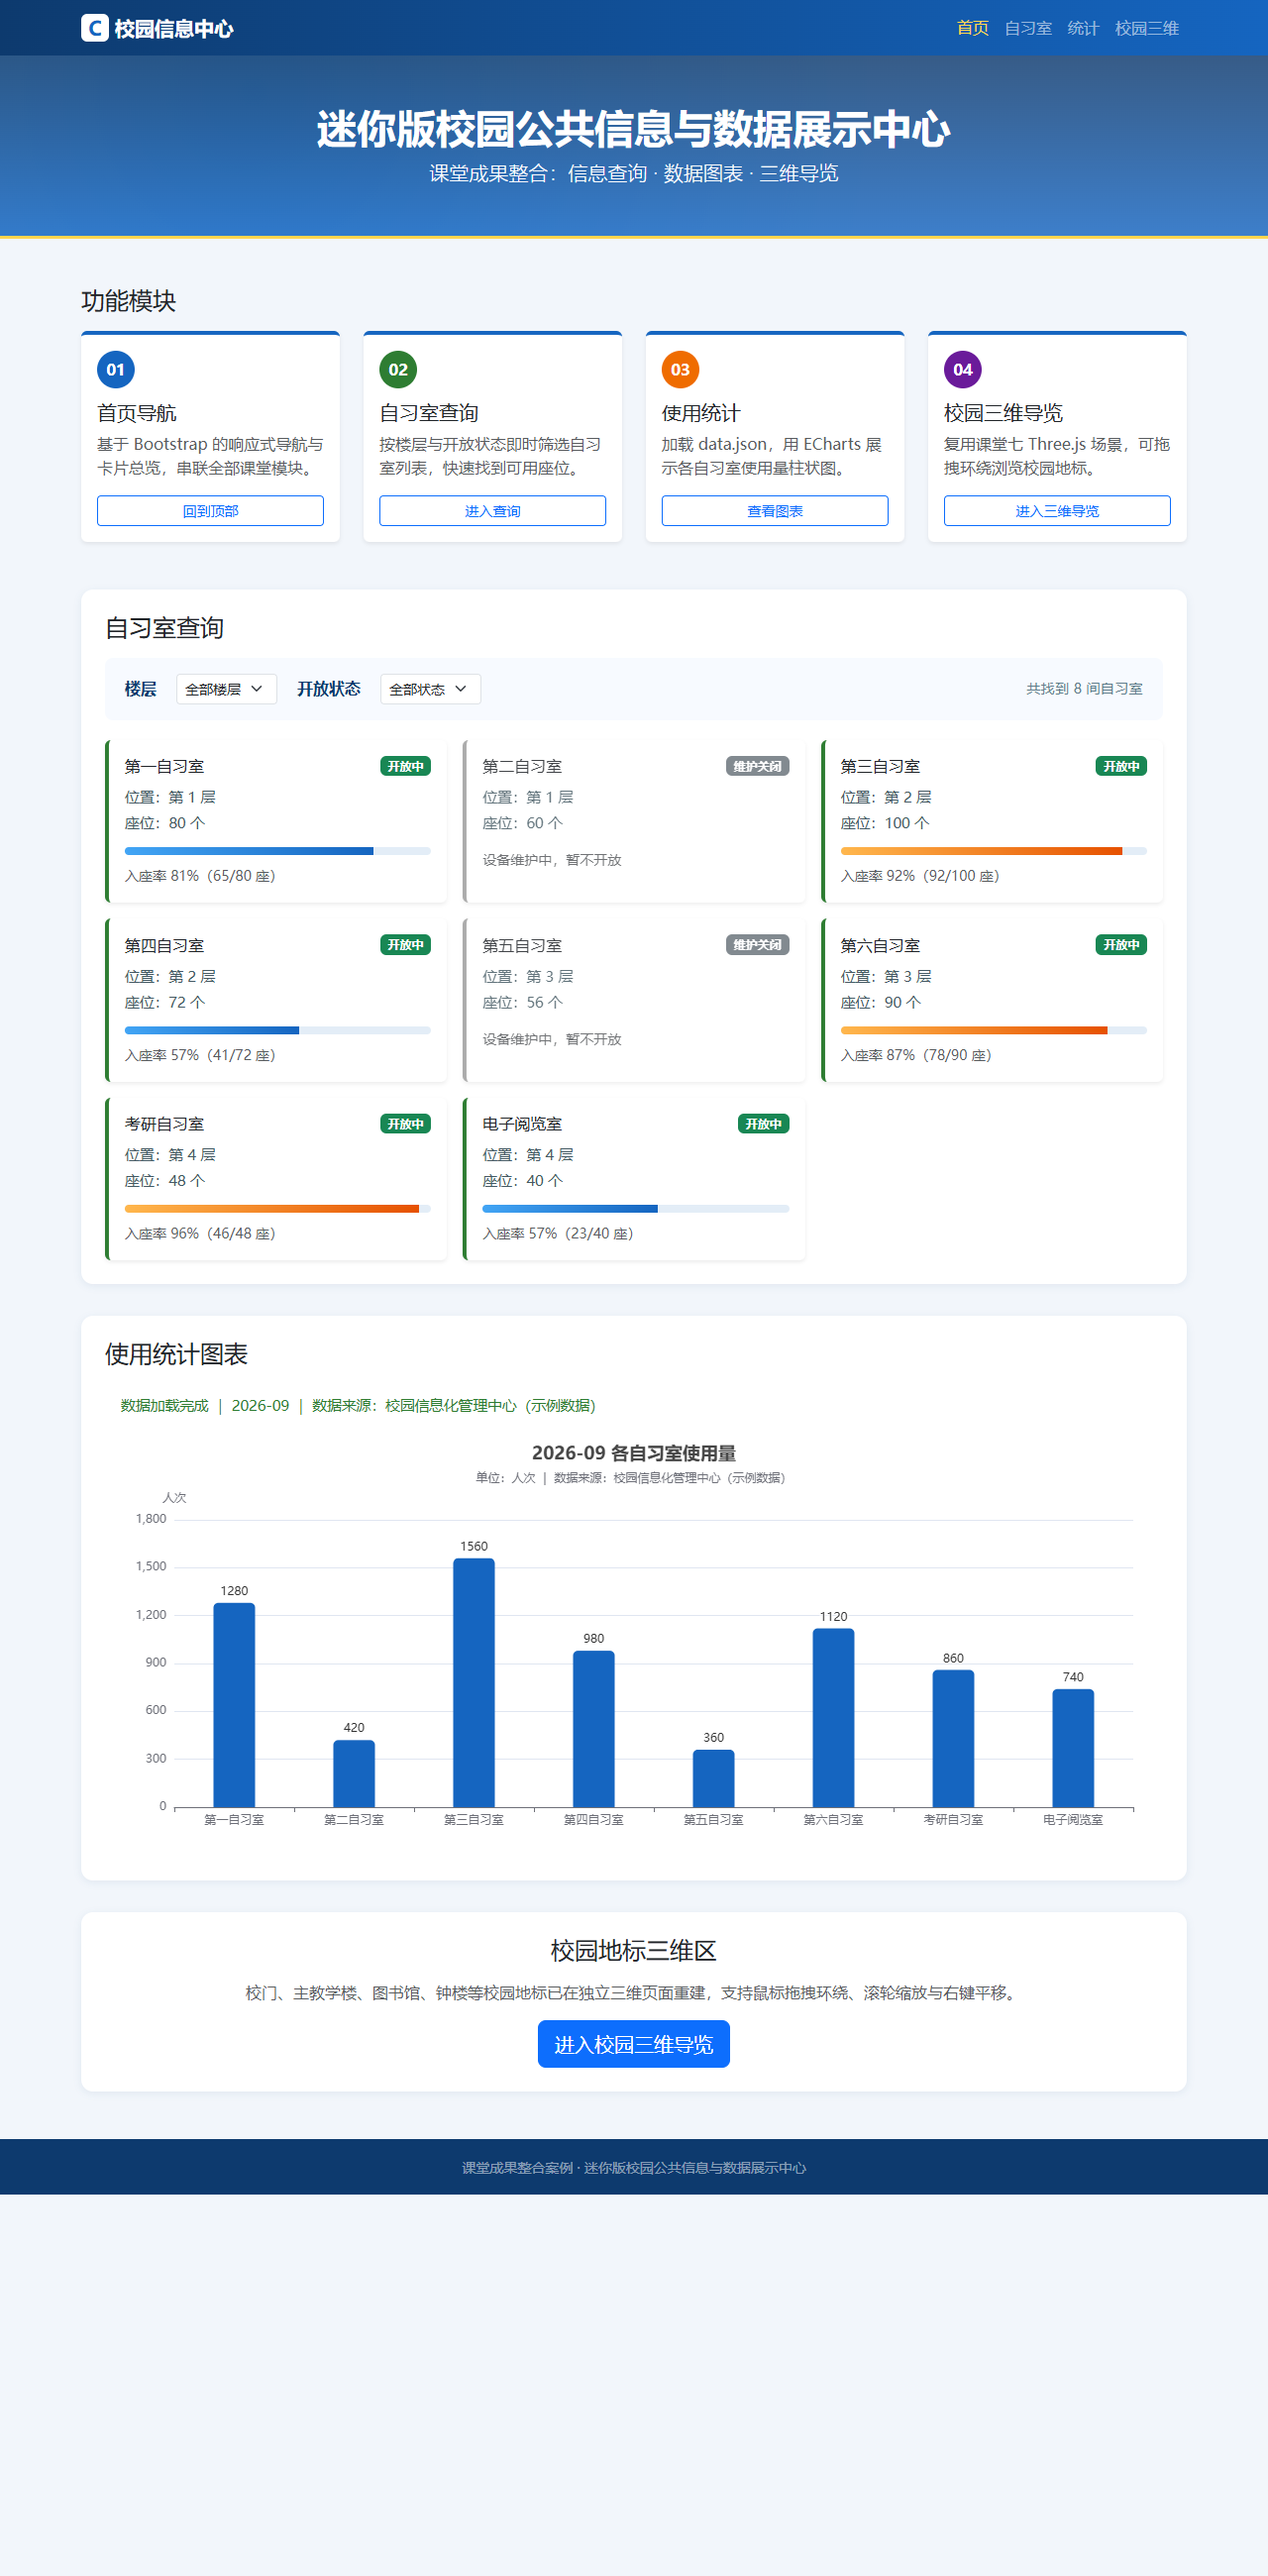
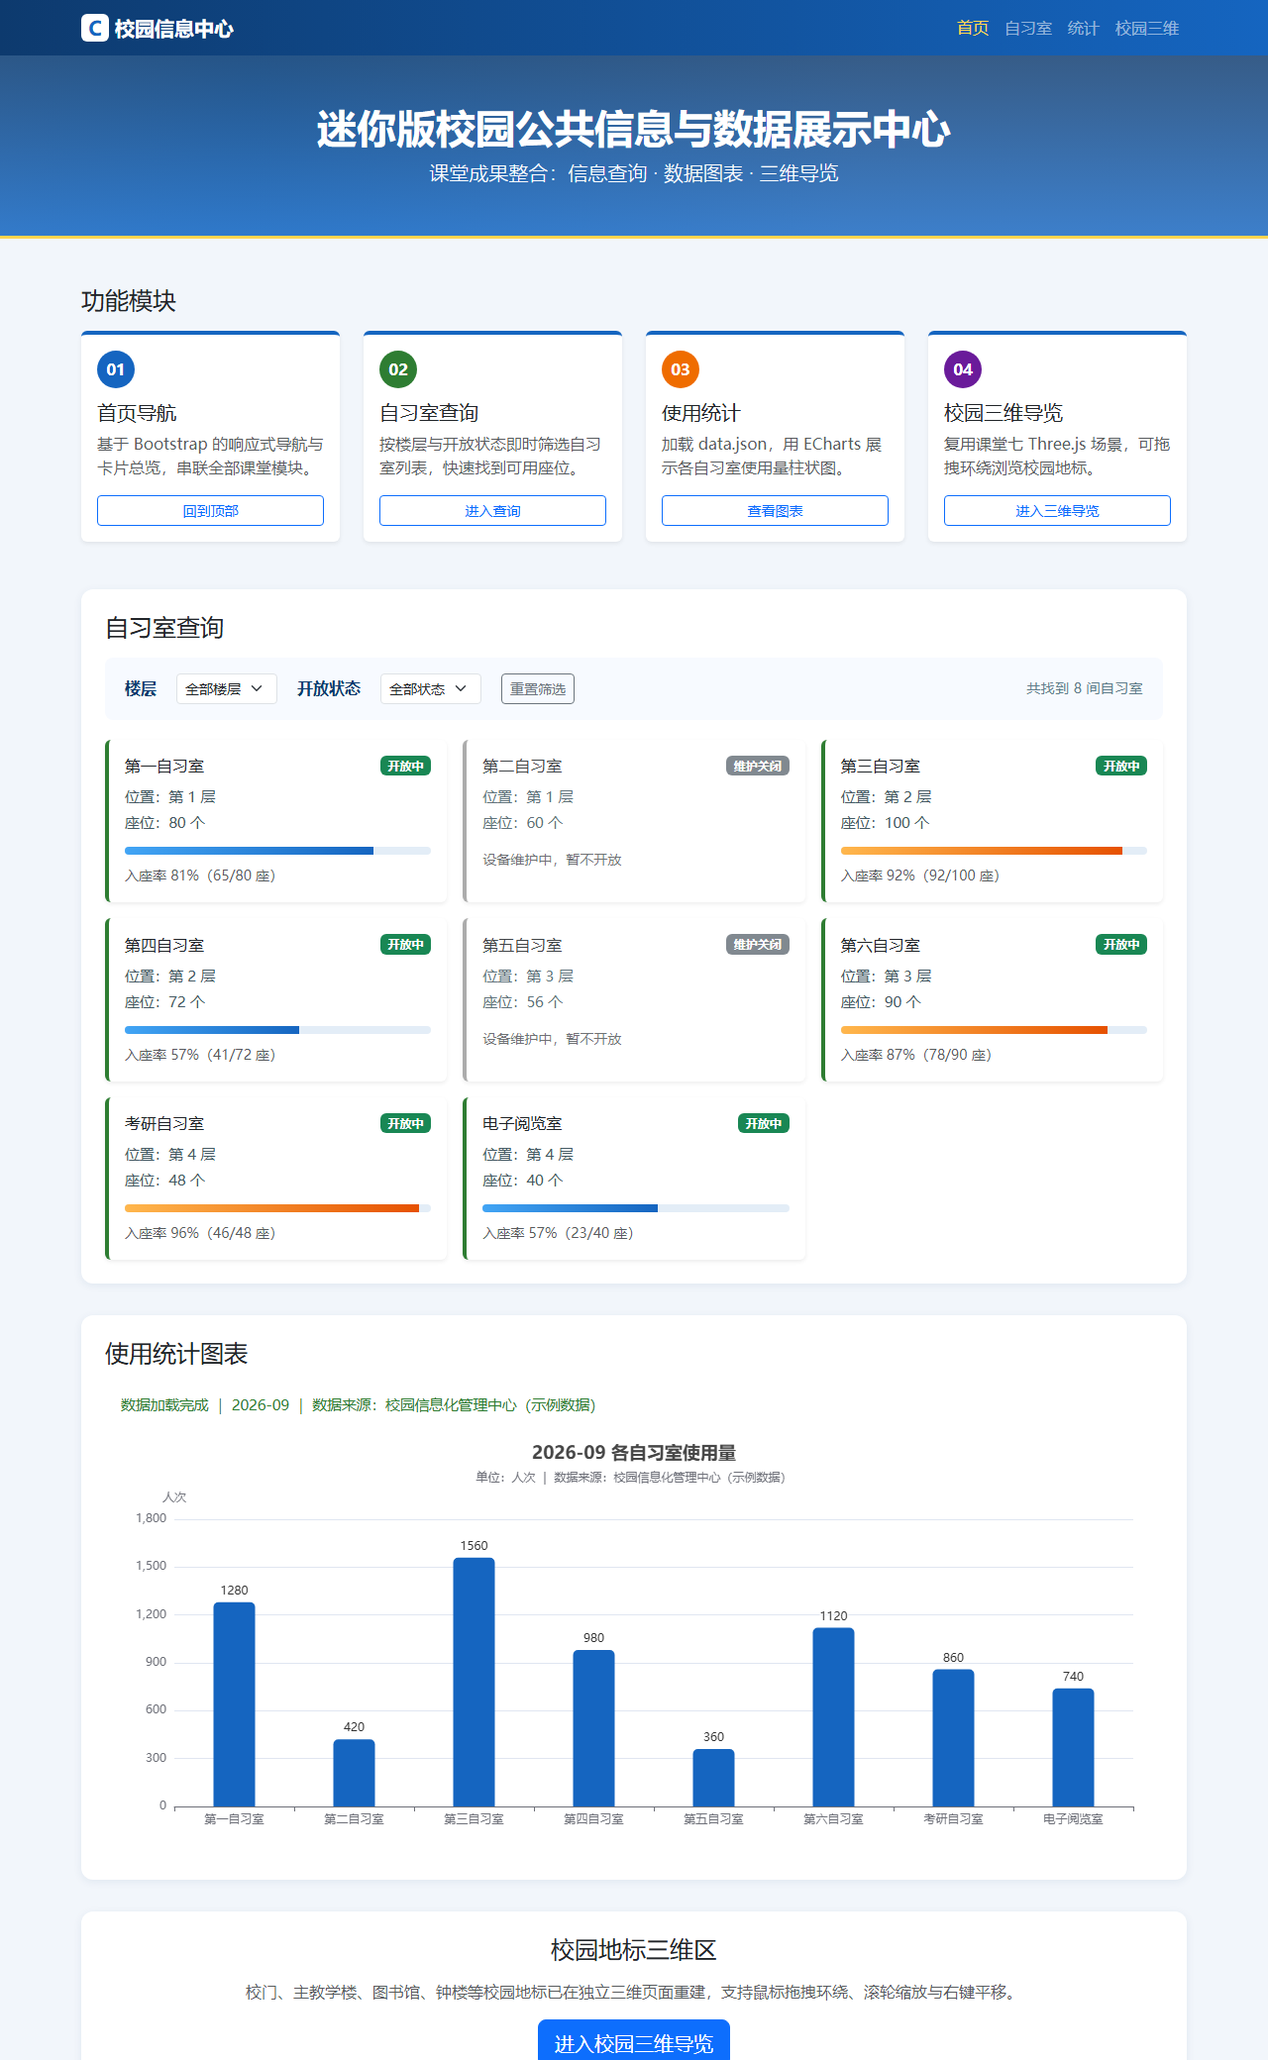
同伴审查意见处理：新增重置筛选按钮、空数据琥珀色提示与?data自测参数、WebGL不可用降级提示、手机端横幅字号收敛，重拍三档/断网/三维证据图并补Console零报错与空数据截图

diff --git a/integration/js/app.js b/integration/js/app.js
@@ -72,6 +72,14 @@
   // change 事件：选择后立即生效，无需点击按钮
   floorFilterEl.addEventListener('change', renderRooms);
   statusFilterEl.addEventListener('change', renderRooms);
+
+  // 重置：两个下拉恢复“全部”并重新渲染（同伴审查意见①）
+  document.getElementById('resetFilter').addEventListener('click', function () {
+    floorFilterEl.value = 'all';
+    statusFilterEl.value = 'all';
+    renderRooms();
+  });
+
   renderRooms();
 
   // ---------------------------------------------------------------
@@ -119,15 +127,19 @@
   }
 
   async function loadData() {
+    // 默认加载 data/data.json；自测空数据时可用 ?data=data/data.empty.json 指定
+    var dataFile = new URLSearchParams(location.search).get('data') || 'data/data.json';
     setStatus('loading', '数据加载中，请稍候…');
     try {
-      const response = await fetch('data/data.json');
+      const response = await fetch(dataFile);
       if (!response.ok) {
         throw new Error('HTTP ' + response.status);
       }
       const data = await response.json();
       if (!data.records || data.records.length === 0) {
-        setStatus('error', '暂无可用统计数据');
+        // 空数据：区别于断网报错，用中性提示并清空旧图（同伴审查意见②）
+        setStatus('empty', '本月暂无自习室使用量数据，图表将在数据更新后自动渲染');
+        if (usageChart) usageChart.clear();
         return;
       }
       setStatus('success', '数据加载完成 ｜ ' + data.month + ' ｜ 数据来源：' + data.source);

diff --git a/integration/three-d/scene.js b/integration/three-d/scene.js
@@ -3,6 +3,23 @@
 // 光源：环境光 + 带阴影的方向光 + 路灯点光源
 // 动画：旗帜摆动、云朵飘移、钟楼指针旋转；交互：OrbitControls 鼠标拖拽
 
+(function () {
+  // ----- WebGL 支持性检测：不支持时显示降级提示并停止初始化（同伴审查意见③） -----
+  function webglAvailable() {
+    try {
+      var c = document.createElement('canvas');
+      return !!(window.WebGLRenderingContext &&
+        (c.getContext('webgl') || c.getContext('experimental-webgl')));
+    } catch (e) {
+      return false;
+    }
+  }
+  if (!webglAvailable()) {
+    var fallback = document.getElementById('webglFallback');
+    if (fallback) fallback.style.display = 'flex';
+    return;
+  }
+
 const scene = new THREE.Scene();
 scene.background = new THREE.Color(0x87ceeb);           // 天空蓝
 scene.fog = new THREE.Fog(0x87ceeb, 30, 70);            // 雾：远景渐隐
@@ -218,3 +235,4 @@ window.addEventListener('resize', () => {
   camera.updateProjectionMatrix();
   renderer.setSize(window.innerWidth, window.innerHeight);
 });
+})();

diff --git a/integration/three-d/scene.html b/integration/three-d/scene.html
@@ -35,6 +35,17 @@
     <a href="../index.html#home">&larr; 返回首页</a>
   </div>
   <div id="tip">鼠标拖拽旋转 · 滚轮缩放 · 右键平移</div>
+  <!-- WebGL 不可用时的降级提示（默认隐藏，scene.js 检测失败后显示） -->
+  <div id="webglFallback" style="display:none;position:fixed;inset:0;z-index:20;
+       background:#f2f6fb;align-items:center;justify-content:center;text-align:center;padding:24px">
+    <div>
+      <p style="font-size:1.2rem;color:#0d3a6e;font-weight:700">当前浏览器不支持或未开启 WebGL</p>
+      <p style="color:#607d8b">请使用最新版 Chrome / Edge 并在设置中开启硬件加速后重试。</p>
+      <a href="../index.html#three"
+         style="display:inline-block;margin-top:8px;text-decoration:none;color:#fff;background:#1565c0;
+                padding:8px 20px;border-radius:18px">返回首页</a>
+    </div>
+  </div>
   <script src="libs/three.min.js"></script>
   <script src="libs/OrbitControls.js"></script>
   <script src="scene.js"></script>

diff --git a/integration/css/style.css b/integration/css/style.css
@@ -157,6 +157,7 @@ body {
 #dataStatus.loading { color: #1565c0; }
 #dataStatus.error   { color: #c62828; background: #fdecea; border: 1px solid #f5c6c2; }
 #dataStatus.success { color: #2e7d32; }
+#dataStatus.empty   { color: #8d6e00; background: #fff8e1; border: 1px solid #ffe082; }
 #dataStatus {
   display: none;
   padding: .6rem 1rem;
@@ -180,4 +181,8 @@ body {
 @media (max-width: 575.98px) {
   .chart-box { height: 320px; }
   #roomCount { margin-left: 0; width: 100%; }
+  /* 同伴审查意见④：手机端收敛横幅字号，避免标题生硬换行占满首屏 */
+  .hero .display-6 { font-size: 1.45rem; }
+  .hero .lead { font-size: .95rem; }
+  .filter-bar .btn { margin-left: 0; }
 }

diff --git a/integration/index.html b/integration/index.html
@@ -105,6 +105,7 @@
           <option value="open">开放中</option>
           <option value="closed">维护关闭</option>
         </select>
+        <button id="resetFilter" type="button" class="btn btn-outline-secondary btn-sm">重置筛选</button>
         <span id="roomCount"></span>
       </div>
       <div id="roomList" class="row g-3"></div>

diff --git a/integration/docs/peer-review.md b/integration/docs/peer-review.md
@@ -1,0 +1,25 @@
+# 同伴审查意见与处理记录
+
+- 被审查作品：迷你版校园公共信息与数据展示中心（`integration/`）
+- 审查方式：同伴本地运行 `python -m http.server 8787` 后现场操作 + 阅读 `js/app.js`、`three-d/scene.js`
+- 审查轮次：1 轮
+- 审查同伴：【请填写同伴姓名/学号】　审查日期：2026-09-19
+- 处理人：本人（20251060233）　回复日期：2026-09-19
+
+## 一、意见逐条处理表
+
+| # | 同伴意见 | 结论 | 处理说明 | 落地位置 / 证据 |
+| --- | --- | --- | --- | --- |
+| 1 | 筛选条件选过之后只能再手动一个个选回"全部楼层/全部状态"，应提供一键重置 | **采纳** | 筛选条新增「重置筛选」按钮，点击后两个下拉恢复 `all` 并立即重新渲染 | `index.html` 筛选条按钮；`js/app.js` `resetFilter` 事件；截图 01/05 可见按钮 |
+| 2 | 把 `data.json` 改成空数组测试时，图表区什么都不显示，分不清是"没数据"还是"出 bug 了" | **采纳** | 空数据与断网分开处理：空数据显示琥珀色中性提示「本月暂无自习室使用量数据……」并清空旧图；断网仍为红色错误条。新增 `?data=` 参数与 `data/data.empty.json` 专门用于空数据自测 | `js/app.js` `loadData()` 空数组分支；`data/data.empty.json`；截图 `07-empty-data.png` |
+| 3 | 三维页如果遇到不支持 WebGL 的浏览器（或关闭硬件加速），整页白屏，用户不知道发生了什么 | **采纳** | 场景初始化前用 canvas 探测 WebGL 支持性，不支持时显示降级提示卡片（含原因说明与返回首页按钮）并安全退出，不再继续执行渲染代码 | `three-d/scene.html` `#webglFallback`；`three-d/scene.js` `webglAvailable()` 检测 |
+| 4 | 手机宽度下首页大标题字号偏大，标题被折成两三行占掉近一屏 | **采纳** | ≤575.98px 断点下横幅标题收敛到 1.45rem、副标题 0.95rem，一行半内显示完整 | `css/style.css` 手机端媒体查询；截图 `03-width-mobile-375.png` |
+| 5 | 建议把三维场景直接嵌在首页里滚动播放，这样更"炫"，不用多点一次 | **拒绝** | 首页常驻 WebGL 画布会持续占用 GPU/电量、拖慢低端机首屏，且三维交互（拖拽/滚轮）与页面滚动会冲突；保持"入口卡片 + 独立场景页"既符合课堂案例的模块边界，也对手机端更友好。该诉求改以正式版计划中的"首屏缩略动图/轻量海报"方式满足 | 见 [final-project-plan.md](final-project-plan.md) 风险 R4 与正式版任务 T6 |
+| 6 | 首页图表和自习室列表名字一致，但操作上没有联动，建议点击/筛选自习室时图表同步高亮 | **修改（推迟到正式版）** | 方向正确，但原型目标是验证四模块整合骨架，联动需要统一的数据适配层与 ECharts 高亮状态管理，工作量超出原型范围；已拆为正式版任务 T4，并保留当前"同名数据"这一衔接基础 | 正式版任务 T4（见实施计划） |
+
+## 二、处理结果核对
+
+- 采纳 4 条（#1~#4）：均已改代码并重新截图验证，三档宽度/空数据/Console 自查全部重跑通过。
+- 拒绝 1 条（#5）：已向同伴说明性能与交互冲突理由，对方认可，替代方案进入正式版计划。
+- 修改/推迟 1 条（#6）：已写入正式版实施计划任务 T4，并注明原型已有的数据衔接基础。
+- 回归情况：上述改动后重新执行质量清单 7 项检查，无新增问题（见 [quality-checklist.md](quality-checklist.md)）。
